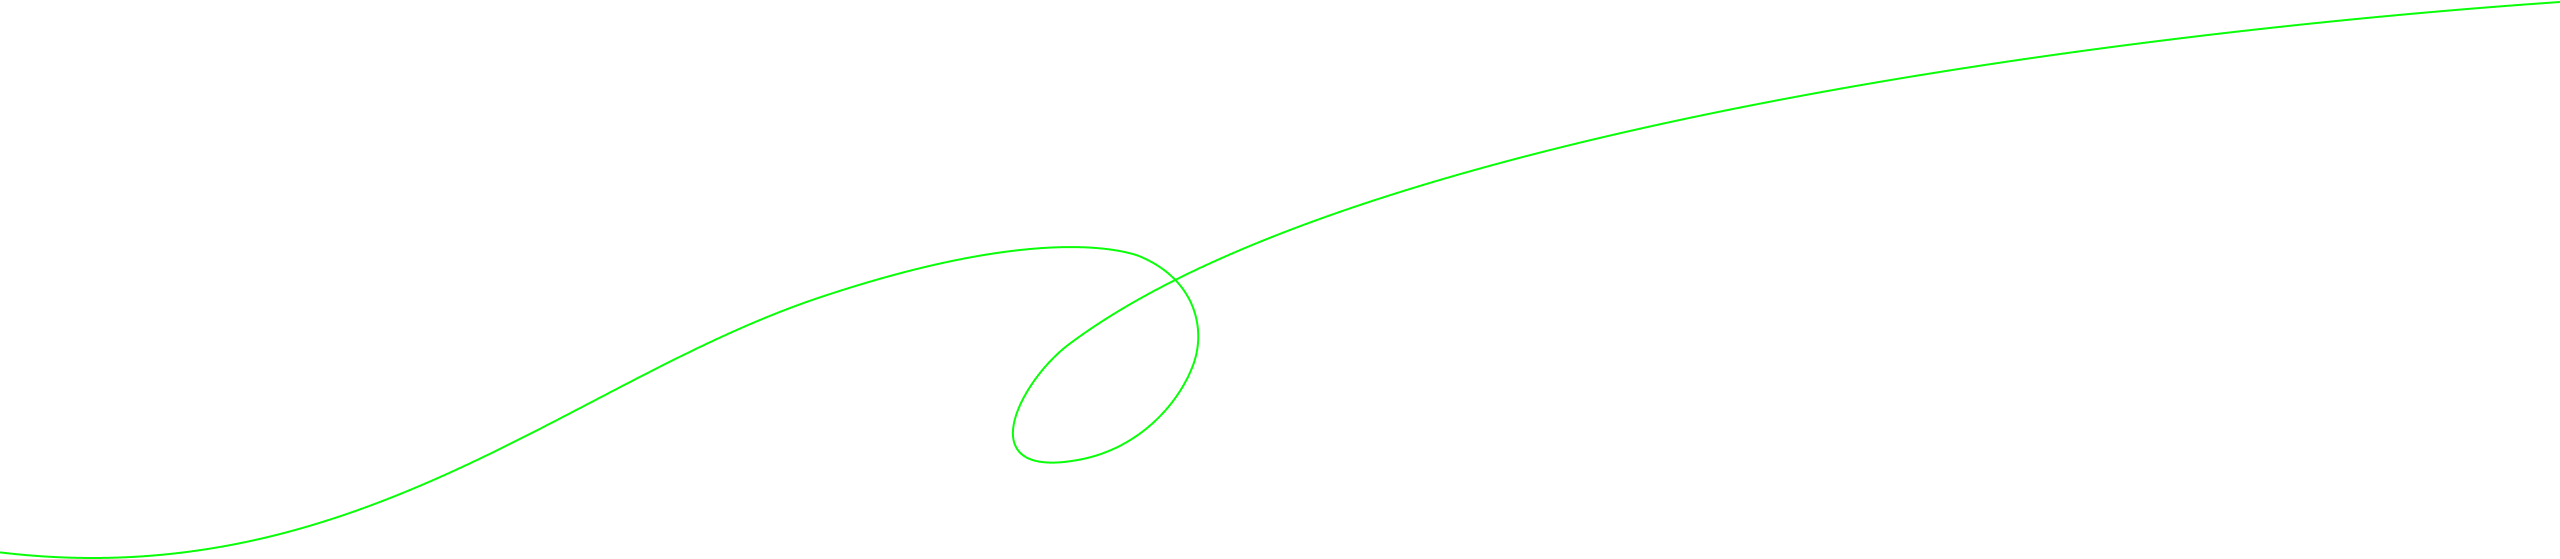
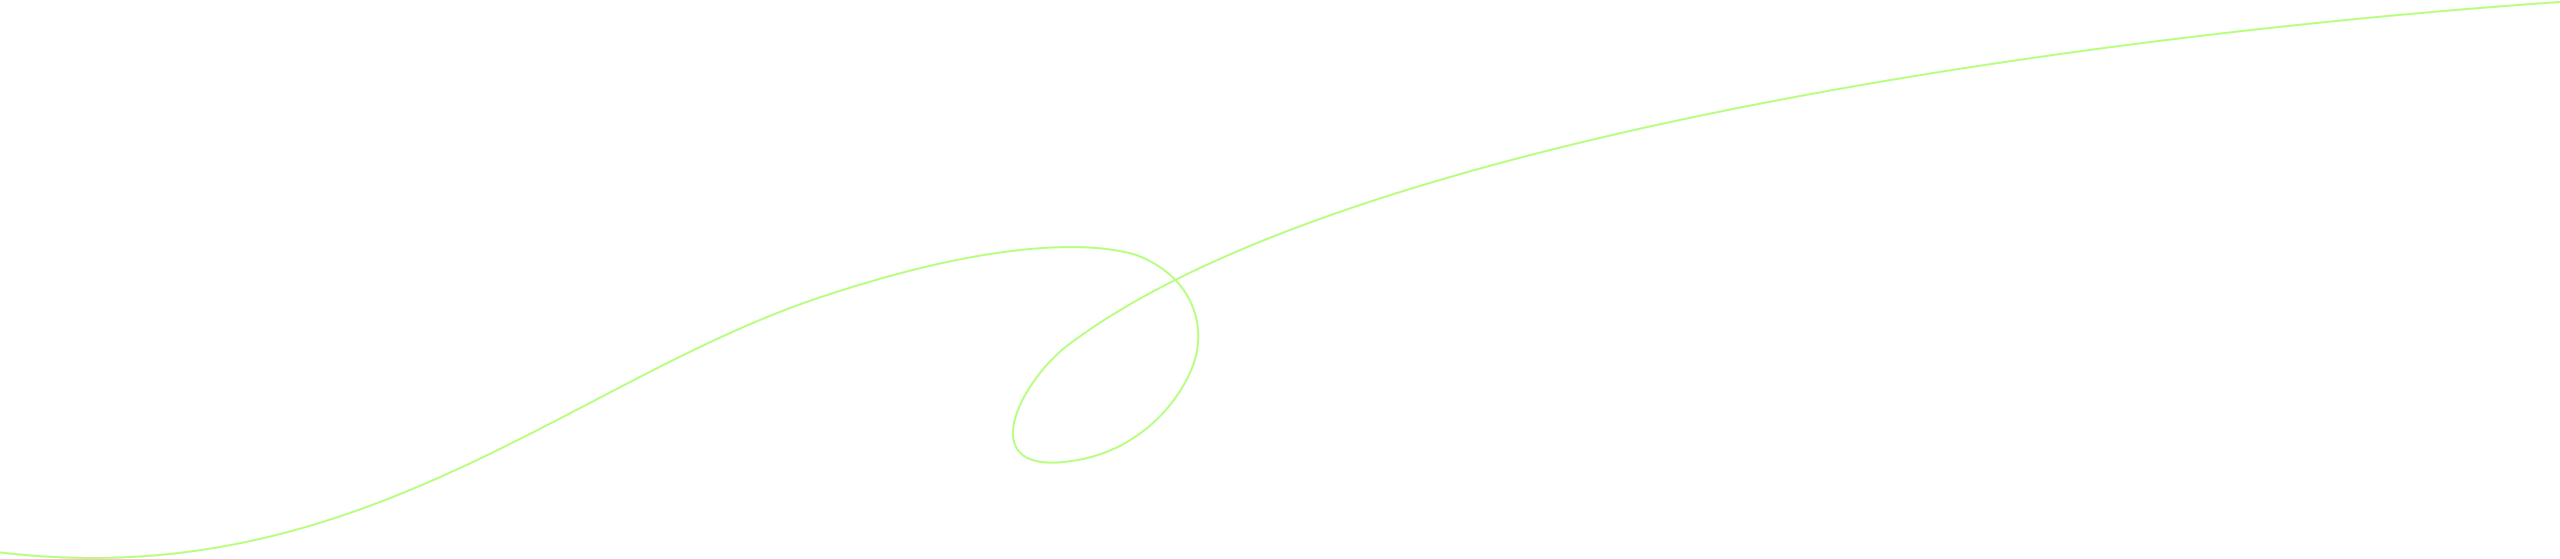
Added mobile design

diff --git a/components/Homepage/About.tsx b/components/Homepage/About.tsx
@@ -1,25 +1,18 @@
 import React from 'react'
-import BgPattern from '@/public/bg-pattern.png'
-import Image from 'next/image'
 import { afacad, afacadItalic } from '@/helpers/fonts'
 
 export const About = () => {
   return (
-    <div className='h-[584px] px-[100px] mt-[120px]'>
-        <article className='bg-[#02FF02] w-full h-full relative overflow-hidden z-10 p-20'>
-            <Image 
-                src={BgPattern}
-                alt='bg-pattern'
-                className='absolute left-0 bottom-0 w-[100%] h-[950px]'
-            />
-            <p className={`${afacadItalic.className} text-6xl font-bold text-center w-[88%] mx-auto`}>
+    <div className=' lg:h-[584px] px-[24px] lg:px-[100px] mt-[40px] lg:mt-[120px]'>
+        <article className='bg-[#9EE463] w-full h-full relative overflow-hidden z-10 p-6 lg:p-20'>
+            <p className={`${afacadItalic.className} text-[30px] leading-[32px] lg:text-6xl font-bold text-center w-[88%] mx-auto`}>
                 We are tech experts who use technology to innovate and transform businesses
             </p>
-            <p className={`${afacad.className} text-xl mx-auto mt-4 text-center w-[90%]`}>
-                At <span className='text-[#7000FF]'> Tech Katalyst</span>, we believe in the power of innovation and strategic thinking. Our goal is to bridge the gap between ideas and successful implementation, helping businesses navigate complex markets and thrive in the digital age. By combining deep industry insights with cutting-edge technology, we strive to deliver solutions that not only meet but exceed our client&apos;s expectations. 
+            <p className={`${afacad.className} text-sm lg:text-xl mx-auto mt-4 text-center w-[90%]`}>
+                At Tech Katalyst, we believe in the power of innovation and strategic thinking. Our goal is to bridge the gap between ideas and successful implementation, helping businesses navigate complex markets and thrive in the digital age. By combining deep industry insights with cutting-edge technology, we strive to deliver solutions that not only meet but exceed our client&apos;s expectations. 
             </p>
-            <article className='mt-20 mx-auto text-center'>
-                <a href="" className={`bg-[#7000FF] text-white text-2xl ${afacad.className} font-medium py-5 px-20`}>
+            <article className='mt-[14px] lg:mt-20 mx-auto text-center'>
+                <a href="" className={`bg-[#7000FF] text-white text-[18px] lg:text-2xl ${afacad.className} font-medium py-[14px] lg:py-5 px-20 block lg:inline-block`}>
                     Explore about us
                 </a>
             </article>

diff --git a/components/Homepage/ServicesWeProvide.tsx b/components/Homepage/ServicesWeProvide.tsx
@@ -1,4 +1,4 @@
-import { afacad, afacadBold, interMedium } from '@/helpers/fonts'
+import { afacad, afacadBold, interItalic } from '@/helpers/fonts'
 import Image from 'next/image'
 import React from 'react'
 import ServicesImage from '@/public/services-image.png'
@@ -6,12 +6,12 @@ import Decorator2 from '@/public/decorator-2.png'
 
 export const ServicesWeProvide = () => {
   return (
-    <div className='px-[100px] py-[120px] flex gap-20'>
+    <div className='px-6 lg:px-[100px] py-[56px] lg:py-[120px] flex flex-col-reverse lg:flex-row gap-6 lg:gap-20'>
         <article>
-            <h4 className={`${interMedium.className} font-bold text-5xl w-[80%] leading-[56px]`}>
+            <h4 className={`${interItalic.className} font-bold text-[30px] lg:text-5xl w-full lg:w-[80%] lg:leading-[56px]`}>
                 We provide IT solution & services for any startups
             </h4>
-            <ul className={`${afacadBold.className} list-decimal text-xl ml-[20px] mt-6 w-[75%] flex flex-col gap-4`}>
+            <ul className={`${afacadBold.className} list-decimal text-xl ml-[20px] mt-6 lg:w-[75%] flex flex-col gap-3 lg:gap-4`}>
                 <li className={`${afacad.className} font-normal`}>
                     <span className={`${afacadBold.className}`}>
                         Expertise Across Domains:
@@ -45,7 +45,7 @@ export const ServicesWeProvide = () => {
                     </span>
                 </li>
             </ul>
-            <a href="" className={`bg-[#7000FF] text-white text-2xl ${afacad.className} font-medium py-5 px-10 inline-block mt-12`}>
+            <a href="" className={`bg-[#7000FF] text-white text-lg text-center lg:text-2xl ${afacad.className} font-bold py-[14px] lg:py-5 px-10 block lg:inline-block mt-8 lg:mt-12`}>
                 Lets discuss oppotunities
             </a>
         </article>
@@ -53,14 +53,12 @@ export const ServicesWeProvide = () => {
             <Image 
                 src={Decorator2}
                 alt='decorator'
-                className='absolute top-[-45px] left-[-20px]'
+                className='absolute top-[0] lg:top-[-45px] left-[-20px]'
             />
             <Image 
                 src={ServicesImage}
                 alt='Services Image'
                 className='gap-10 object-cover'
-                // height={600}
-                // width={506}
             />
         </article>
     </div>

diff --git a/components/Footer.tsx b/components/Footer.tsx
@@ -1,0 +1,57 @@
+import Image from 'next/image'
+import React from 'react'
+import LogoWhite from '@/public/logo-white.png'
+import LinkedinLogo from '@/public/linkedin.png'
+import TwitterLogo from '@/public/twitter.png'
+
+const Footer = () => {
+  return (
+    <div className='w-full bg-[#101427] pt-8 lg:pt-[56px] pb-[26px] px-6 lg:px-[100px]'>
+        <div className='flex justify-between'>
+            <Image 
+                src={LogoWhite}
+                alt='logo'
+                className='w-[104px] h-[32px] lg:w-[180px] lg:h-auto'
+            />
+            <article className='items-center space-x-20 text-white hidden lg:flex'>
+                <a href="">
+                    Services
+                </a>
+                <a href="">
+                    Contact us
+                </a>
+            </article>
+            <article className='flex items-center gap-4 '>
+                <a href="">
+                    <Image 
+                        src={LinkedinLogo}
+                        alt='linkedin'
+                        className='w-[28px] lg:w-[36px] h-[28px] lg:h-[36px]'
+                    />
+                </a>
+                <a href="">
+                    <Image 
+                        src={TwitterLogo}
+                        alt='twitter'
+                        className='w-[28px] lg:w-[36px] h-[28px] lg:h-[36px]'
+                    />
+                </a>
+            </article>
+        </div>
+        <article className='items-center space-x-12 text-white flex lg:hidden pt-4'>
+            <a href="">
+                Services
+            </a>
+            <a href="">
+                Contact us
+            </a>
+        </article>
+        <hr className='border-solid border-t-[#161f31] mt-[32px] lg:mt-[56px]' />
+        <p className='text-sm text-white mt-6 lg:text-center'>
+            © Copyright 2024, All Rights Reserved by Tech Katalyst
+        </p>
+    </div>
+  )
+}
+
+export default Footer

diff --git a/components/Homepage/AreasWeCover.tsx b/components/Homepage/AreasWeCover.tsx
@@ -6,16 +6,16 @@ import { inter } from '@/helpers/fonts'
 
 export const AreasWeCover = () => {
   return (
-    <div className='h-[1397px] bg-[#0A0615] w-full mt-[-300px] relative overflow-hidden pt-[420px]'>
+    <div className='lg:h-[1397px] bg-[#0A0615] w-full mt-[-350px] lg:mt-[-300px] relative overflow-hidden pt-[420px] pb-[40px] lg:pb-0'>
         <Image 
             src={CircleBg}
             alt='circle-bg'
-            className='absolute object-cover top-0'
+            className='absolute object-cover top-0 hidden lg:block'
         />
-        <h4 className={`text-5xl z-10 text-white w-[60%] font-bold italic ${inter.className} mx-auto text-center leading-[56px] z-10 relative`}>
-            We deal with the aspects of professional services
+        <h4 className={`px-6 text-[30px] leading-[32px] lg:text-5xl lg:leading-[56px] z-10 text-white w-[90%] lg:w-[60%] font-bold italic ${inter.className} lg:mx-auto text-center leading-[56px] z-10 relative w-full`}>
+            We are tech experts who use technology to innovate and transform businesses
         </h4>
-        <div className='mt-14 text-white px-[100px] z-10 relative grid grid-cols-3 gap-6'>
+        <div className='mt-7 lg:mt-14 text-white px-6 lg:px-[100px] z-10 relative grid grid-cols-1 lg:grid-cols-3 gap-6'>
             <ProductCard titleClassName='w-[50%]' title='Market Research' subtitle='In-depth product research, competitor analysis, and market documentation that provide a clear roadmap for your business.' />
             <ProductCard titleClassName='w-[50%]' title='Product Management' subtitle='From product discovery and validation to roadmapping and optimization, we manage the entire lifecycle of your product.' />
             <ProductCard titleClassName='w-[50%]' title='Web Development' subtitle='Building intuitive and powerful mobile applications to keep your business at your customers’ fingertips.' />

diff --git a/components/Homepage/IntroSection.tsx b/components/Homepage/IntroSection.tsx
@@ -7,22 +7,22 @@ import { afacad } from '@/helpers/fonts'
 export const IntroSection = () => {
   return (
     <div className='relative'>
-        <div className='flex items-center py-10 pt-4 px-[100px]'>
-            <article>
-                <h2 className={`${afacad.className} text-[68px] font-bold w-[70%] leading-[68px]`}>
+        <div className='flex flex-col-reverse lg:flex-row items-center py-10 pt-4 px-6 lg:px-[100px]'>
+            <article className='mt-[28px] lg:mt-auto'>
+                <h2 className={`${afacad.className} text-[40px] leading-[40px] w-[90%] lg:text-[68px] font-bold lg:w-[70%] lg:leading-[68px]`}>
                     We provide best tech solutions for your business
                 </h2>
-                <p className={`${afacad.className} text-xl w-[70%] mt-10`}>
+                <p className={`${afacad.className} text-xl lg:w-[70%] mt-3 lg:mt-10`}> 
                     We are architects of innovation, trailblazers of technological advancement, and partners in your success. As a dynamic and forward-thinking organization
                 </p>
-                <a href="" className={`${afacad.className} mt-12 bg-[#7000FF] py-5 px-10 text-white rounded-sm text-2xl font-medium inline-block`}>
+                <a href="" className={`${afacad.className} mt-6 lg:mt-12 bg-[#7000FF] py-[14px] lg:py-5 px-10 text-white rounded-sm text-[18px] text-center lg:text-2xl font-medium w-full lg:w-auto inline-block`}>
                     Lets discuss oppotunities
                 </a>
             </article>
             <Image 
                 src={Intro}
                 alt="Intro"
-                className='w-[482px] h-[480px]' 
+                className='w-[482px] lg:h-[480px]' 
             />
         </div>
         <Image 

diff --git a/components/Homepage/AboutClients.tsx b/components/Homepage/AboutClients.tsx
@@ -1,4 +1,4 @@
-import { inter } from '@/helpers/fonts'
+import { afacadBold } from '@/helpers/fonts'
 import React from 'react'
 import ClientCard from './ClientCard'
 import Person1 from '@/public/person1.png'
@@ -7,11 +7,11 @@ import Person3 from '@/public/person3.png'
 
 export const AboutClients = () => {
   return (
-    <div className='mt-[120px] px-[100px]'>
-        <h3 className={`${inter.className} text-5xl text-center font-bold`}>
+    <div className='mt-[40px] lg:mt-[120px] px-[24px] lg:px-[100px]'>
+        <h3 className={`${afacadBold.className} italic text-5xl text-center font-bold`}>
             What client say
         </h3>
-        <article className='pt-14 flex justify-between gap-x-6'>
+        <article className='pt-7 lg:pt-14 flex flex-col lg:flex-row justify-between gap-[16px] lg:gap-x-6'>
             <ClientCard name='Karthik Tyagi' profilePic={Person1} review='We have been associated with Laundris Laundry Service for almost a year and in short have been extremely pleased. Their service has been excellent and the entire organization is dedicated towards professionalism.' />
             <ClientCard name='Rishabh Jain' profilePic={Person2} review='We have been associated with Laundris Laundry Service for almost a year and in short have been extremely pleased. Their service has been excellent and the entire organization is dedicated towards professionalism.' />
             <ClientCard name='Gaurav Singh' profilePic={Person3} review='We have been associated with Laundris Laundry Service for almost a year and in short have been extremely pleased. Their service has been excellent and the entire organization is dedicated towards professionalism.' />

diff --git a/components/Homepage/WorkingProcess.tsx b/components/Homepage/WorkingProcess.tsx
@@ -1,4 +1,4 @@
-import { interMedium } from '@/helpers/fonts'
+import { afacadBold } from '@/helpers/fonts'
 import React from 'react'
 import ProcessCard from './ProcessCard'
 import DevIcon from '@/public/dev.png'
@@ -7,11 +7,11 @@ import TestingIcon from '@/public/testing.png'
 
 export const WorkingProcess = () => {
   return (
-    <div className='bg-[#0a0615] py-[120px]'>
-        <h4 className={`${interMedium.className} text-white text-5xl w-[68%] text-center mx-auto leading-[56px] italic`}>
+    <div className='bg-[#0a0615] pt-[40px] lg:py-[120px] pb-[40px]'>
+        <h4 className={`${afacadBold.className} text-white text-[30px] p-6 pt-0 leading-[32px] lg:p-0 lg:text-5xl w-full lg:w-[50%] text-center mx-auto lg:leading-[56px] italic`}>
             Our working process on how to grow your business
         </h4>
-        <article className='flex px-[150px] justify-between mt-12'>
+        <article className='flex flex-col lg:flex-row lg:px-[150px] justify-between mt-[8px] lg:mt-12 gap-6 lg:gap-0'>
             <ProcessCard icon={PlanningIcon} title="Initiation & Planning" subtitle="We are architects innovation trailblazers of technological advancement" />
             <ProcessCard icon={DevIcon} title="Execution and Development" subtitle="We are architects innovation trailblazers of technological advancement" />
             <ProcessCard icon={TestingIcon} title="Testing and Maintenance" subtitle="We are architects innovation trailblazers of technological advancement" />

diff --git a/components/Homepage/WorkTogether.tsx b/components/Homepage/WorkTogether.tsx
@@ -3,17 +3,17 @@ import React from 'react'
 
 const WorkTogether = () => {
   return (
-    <div className='mt-[120px] px-[100px] py-[80px] bg-[#7000FF] text-white flex justify-end'>
+    <div className='mt-[56px] lg:mt-[120px] px-6 gap-8 lg:px-[100px] py-[80px] bg-[#7000FF] flex-col lg:flex-row text-white flex justify-end'>
         <article className='grow'>
-            <h4 className={`${interMedium.className} text-5xl italic`}>
+            <h4 className={`${interMedium.className} text-[30px] text-center lg:text-left lg:text-5xl italic`}>
                 Let’s work together
             </h4>
-            <p className={`pt-6 ${afacad.className} text-xl w-[50%]`}>
+            <p className={`pt-4 lg:pt-6 ${afacad.className} text-xl w-full text-center lg:text-left lg:w-[50%]`}>
                 We are architects of innovation, trailblazers of technological advancements, and partners in your success. As a dynamic and forward -thinking organisation  
             </p>
         </article>
-        <article className='flex self-center'>
-            <a href="" className={`flex ${afacadBold.className} bg-[#02FF02] py-5 px-10 text-black w-full text-2xl whitespace-nowrap`}>
+        <article className='flex lg:self-center'>
+            <a href="" className={`flex justify-center ${afacadBold.className} bg-[#9EE463] py-[14px] lg:py-5 px-10 text-black w-full text-2xl whitespace-nowrap`}>
                 Start a project
             </a>
         </article>

diff --git a/components/Header.tsx b/components/Header.tsx
@@ -1,12 +1,13 @@
 import React from 'react'
 import Logo from '@/public/logo.png'
 import Image from 'next/image'
+import { inter } from '@/helpers/fonts'
 
 export const Header = () => {
   return (
-    <div className='flex justify-between items-center py-10 px-[100px]'>
-        <Image src={Logo} alt="Logo" className="w-[140px] h-[66px]" /> 
-        <article className='flex items-center space-x-20'>
+    <div className='flex justify-between items-start py-6 lg:py-10 px-6 lg:px-[100px]'>
+        <Image src={Logo} alt="Logo" className="w-[130px] lg:w-[216px] h-[40px] lg:h-[66px]" /> 
+        <article className={`hidden lg:flex items-center space-x-20 ${inter.className} font-medium`}>
             <a className='uppercase font-medium' href=""> Home </a>
             <a className='uppercase font-medium' href=""> Services </a>
             <a className='bg-[#7000FF] py-3 px-8 text-white rounded-sm font-medium' href=""> Contact us </a> 

diff --git a/components/Homepage/ProductCard.tsx b/components/Homepage/ProductCard.tsx
@@ -5,16 +5,16 @@ import { inter } from '@/helpers/fonts'
 
 export const ProductCard = ({ title, subtitle, titleClassName }: { title: string, subtitle: string, titleClassName?: string }) => {
   return (
-    <div className={`bg-white p-8 inline-block ${inter.className}`}>
+    <div className={`bg-white p-6 lg:p-8 inline-block ${inter.className}`}>
         <Image 
             src={FolderIcon}
             alt='folder-icon'
             className='h-[72px] w-[72px]'
         />
-        <p className={`text-[#212121] mt-6 text-2xl font-bold ${titleClassName}`}>
+        <p className={`text-[#212121] mt-4 lg:mt-6 text-2xl font-bold ${titleClassName} w-full`}>
             {title}
         </p>
-        <p className='text-[#212121] mt-5 w-[85%]'>
+        <p className='text-[#212121] mt-2 lg:mt-5 w-[100%] lg:w-[85%]'>
             {subtitle}
         </p>
     </div>

diff --git a/app/page.tsx b/app/page.tsx
@@ -1,11 +1,12 @@
 import About from '@/components/Homepage/About';
 import AboutClients from '@/components/Homepage/AboutClients';
 import AreasWeCover from '@/components/Homepage/AreasWeCover';
-import Header from '@/components/Homepage/Header';
+import Header from '@/components/Header';
 import IntroSection from '@/components/Homepage/IntroSection';
 import ServicesWeProvide from '@/components/Homepage/ServicesWeProvide';
 import WorkTogether from '@/components/Homepage/WorkTogether';
 import WorkingProcess from '@/components/Homepage/WorkingProcess';
+import Footer from '@/components/Footer';
 
 export default function Home() {
   return (
@@ -18,6 +19,7 @@ export default function Home() {
       <WorkingProcess />
       <AboutClients />
       <WorkTogether />
+      <Footer />
     </div>
   );
 }

diff --git a/components/Homepage/ProcessCard.tsx b/components/Homepage/ProcessCard.tsx
@@ -11,10 +11,10 @@ export const ProcessCard = ({ icon, title, subtitle } : { icon: StaticImageData,
                 className='w-[62px] h-[62px]'
             />
         </article>
-        <p className='text-white font-bold text-2xl mt-6'>
+        <p className='text-white font-bold text-xl lg:text-2xl mt-6'>
             {title}
         </p>
-        <p className='text-[rgba(255,255,255,0.8)] text-sm text-center w-[50%]'>
+        <p className='text-[rgba(255,255,255,0.8)] text-[12px] lg:text-sm text-center w-[50%]'>
             {subtitle}
         </p>
     </div>
